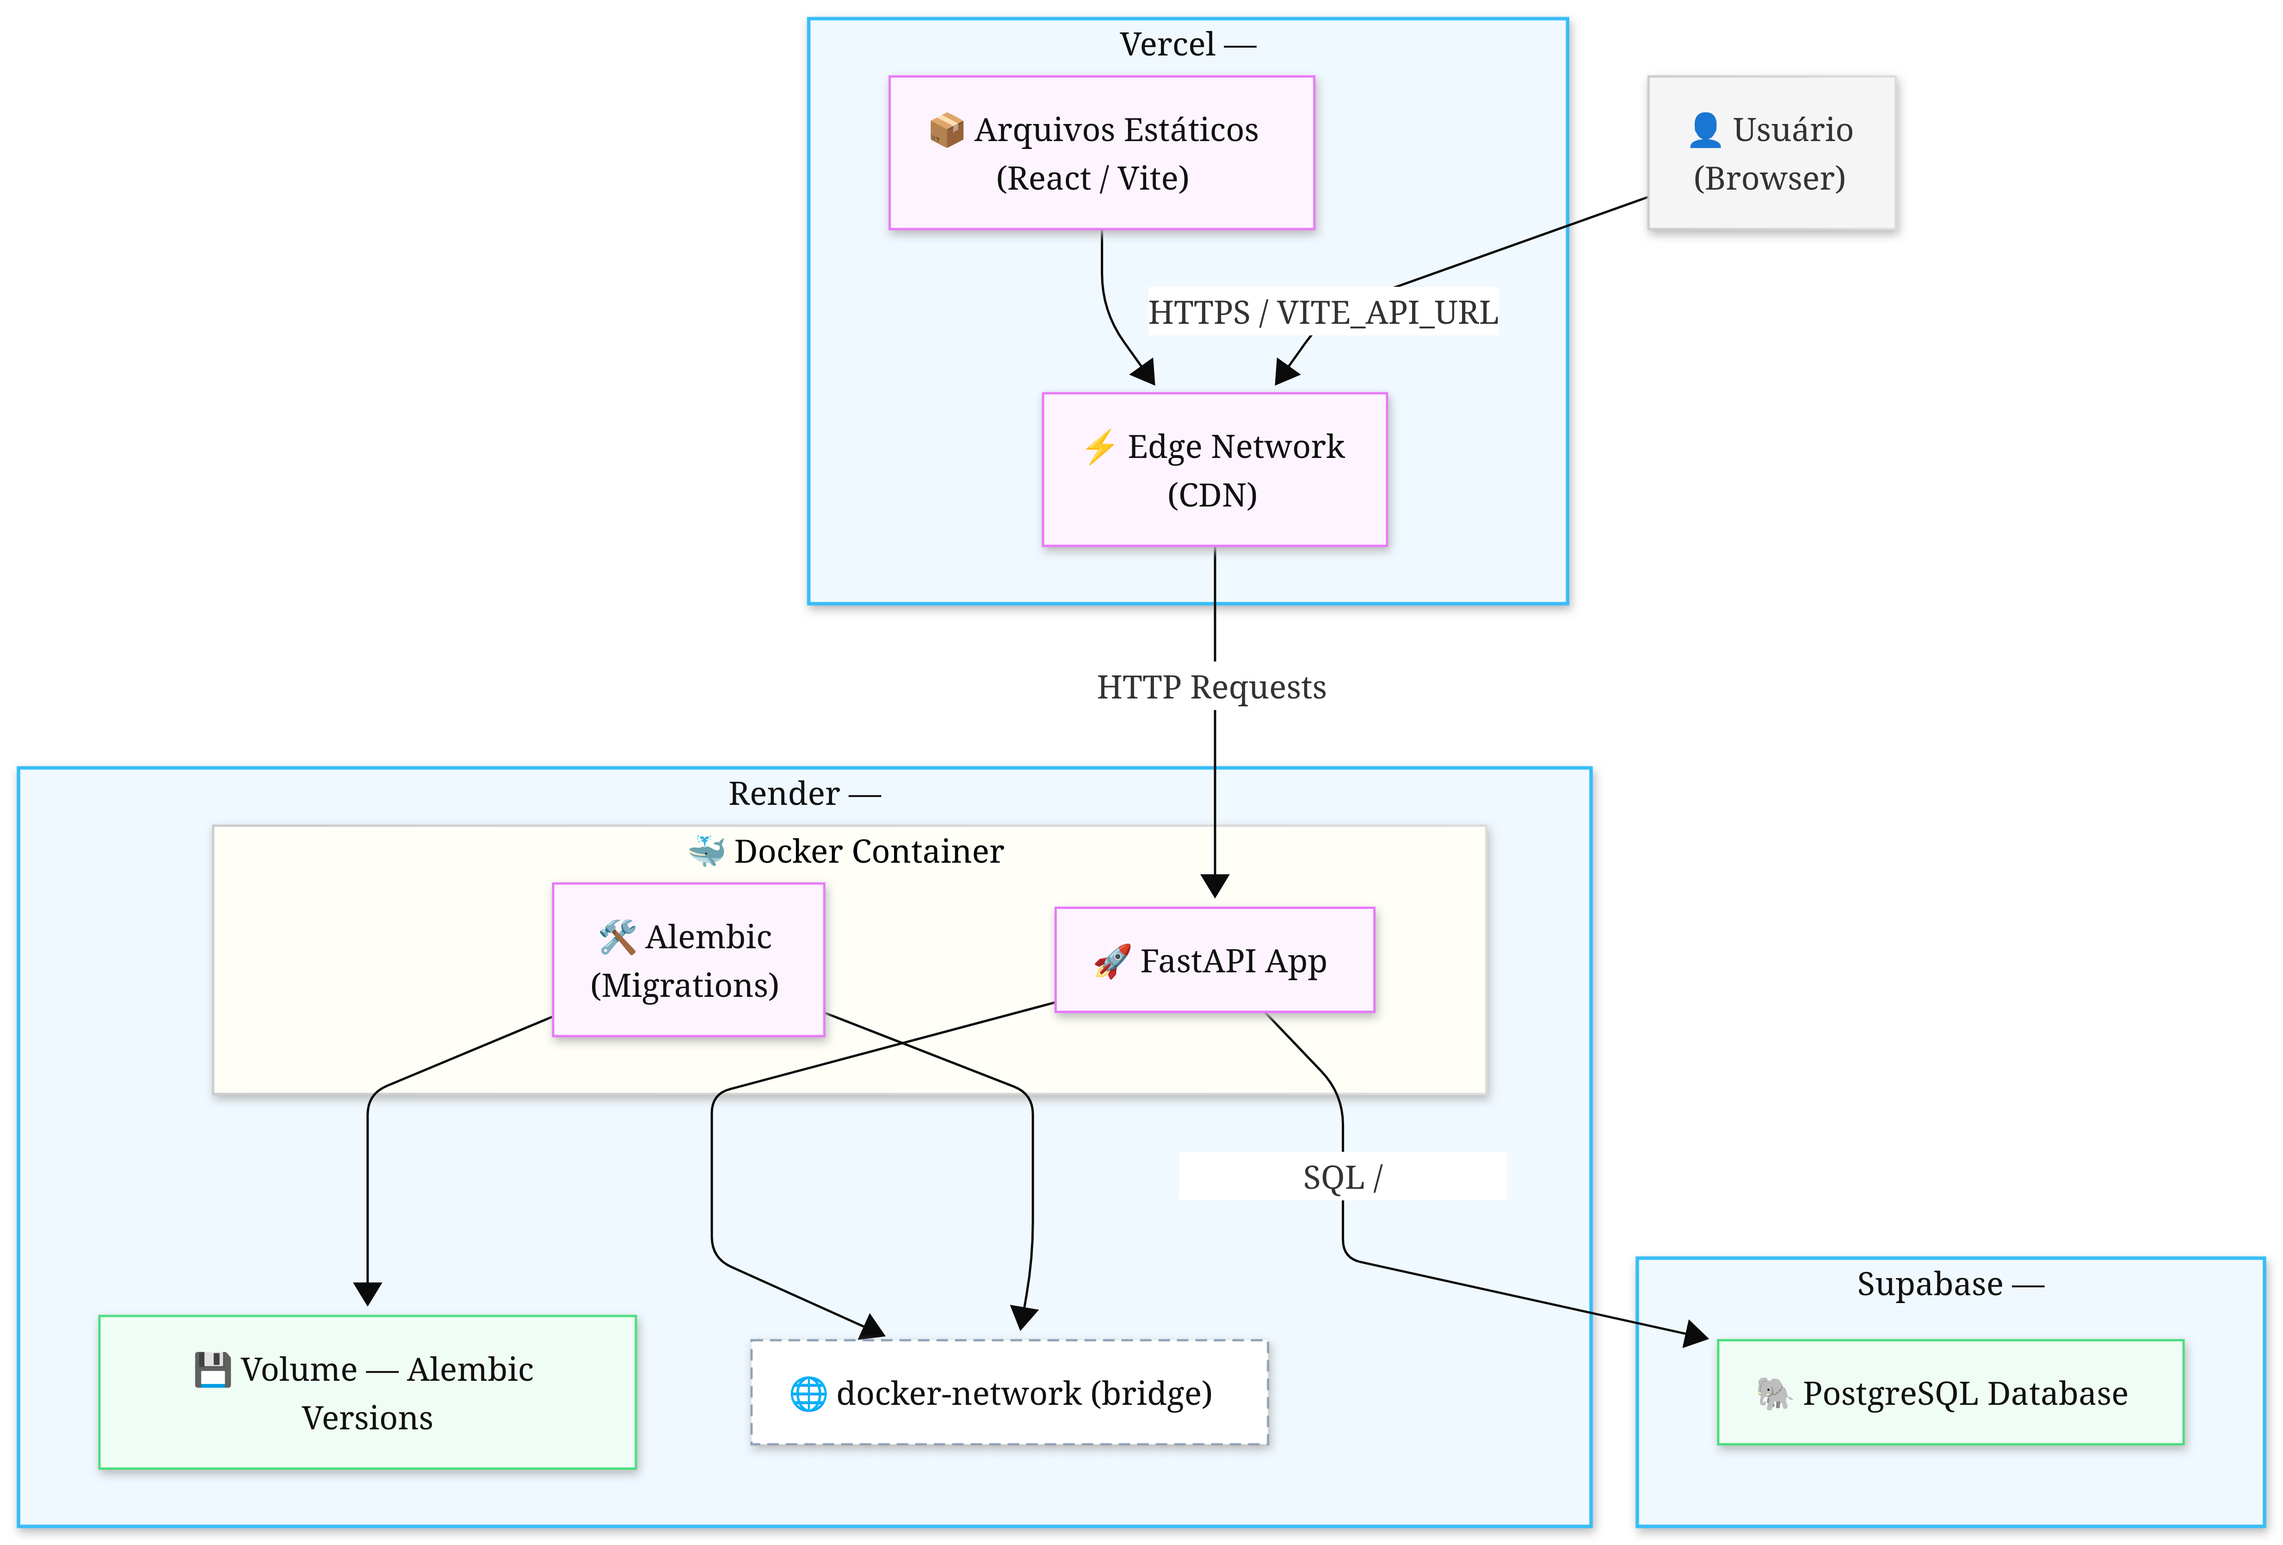
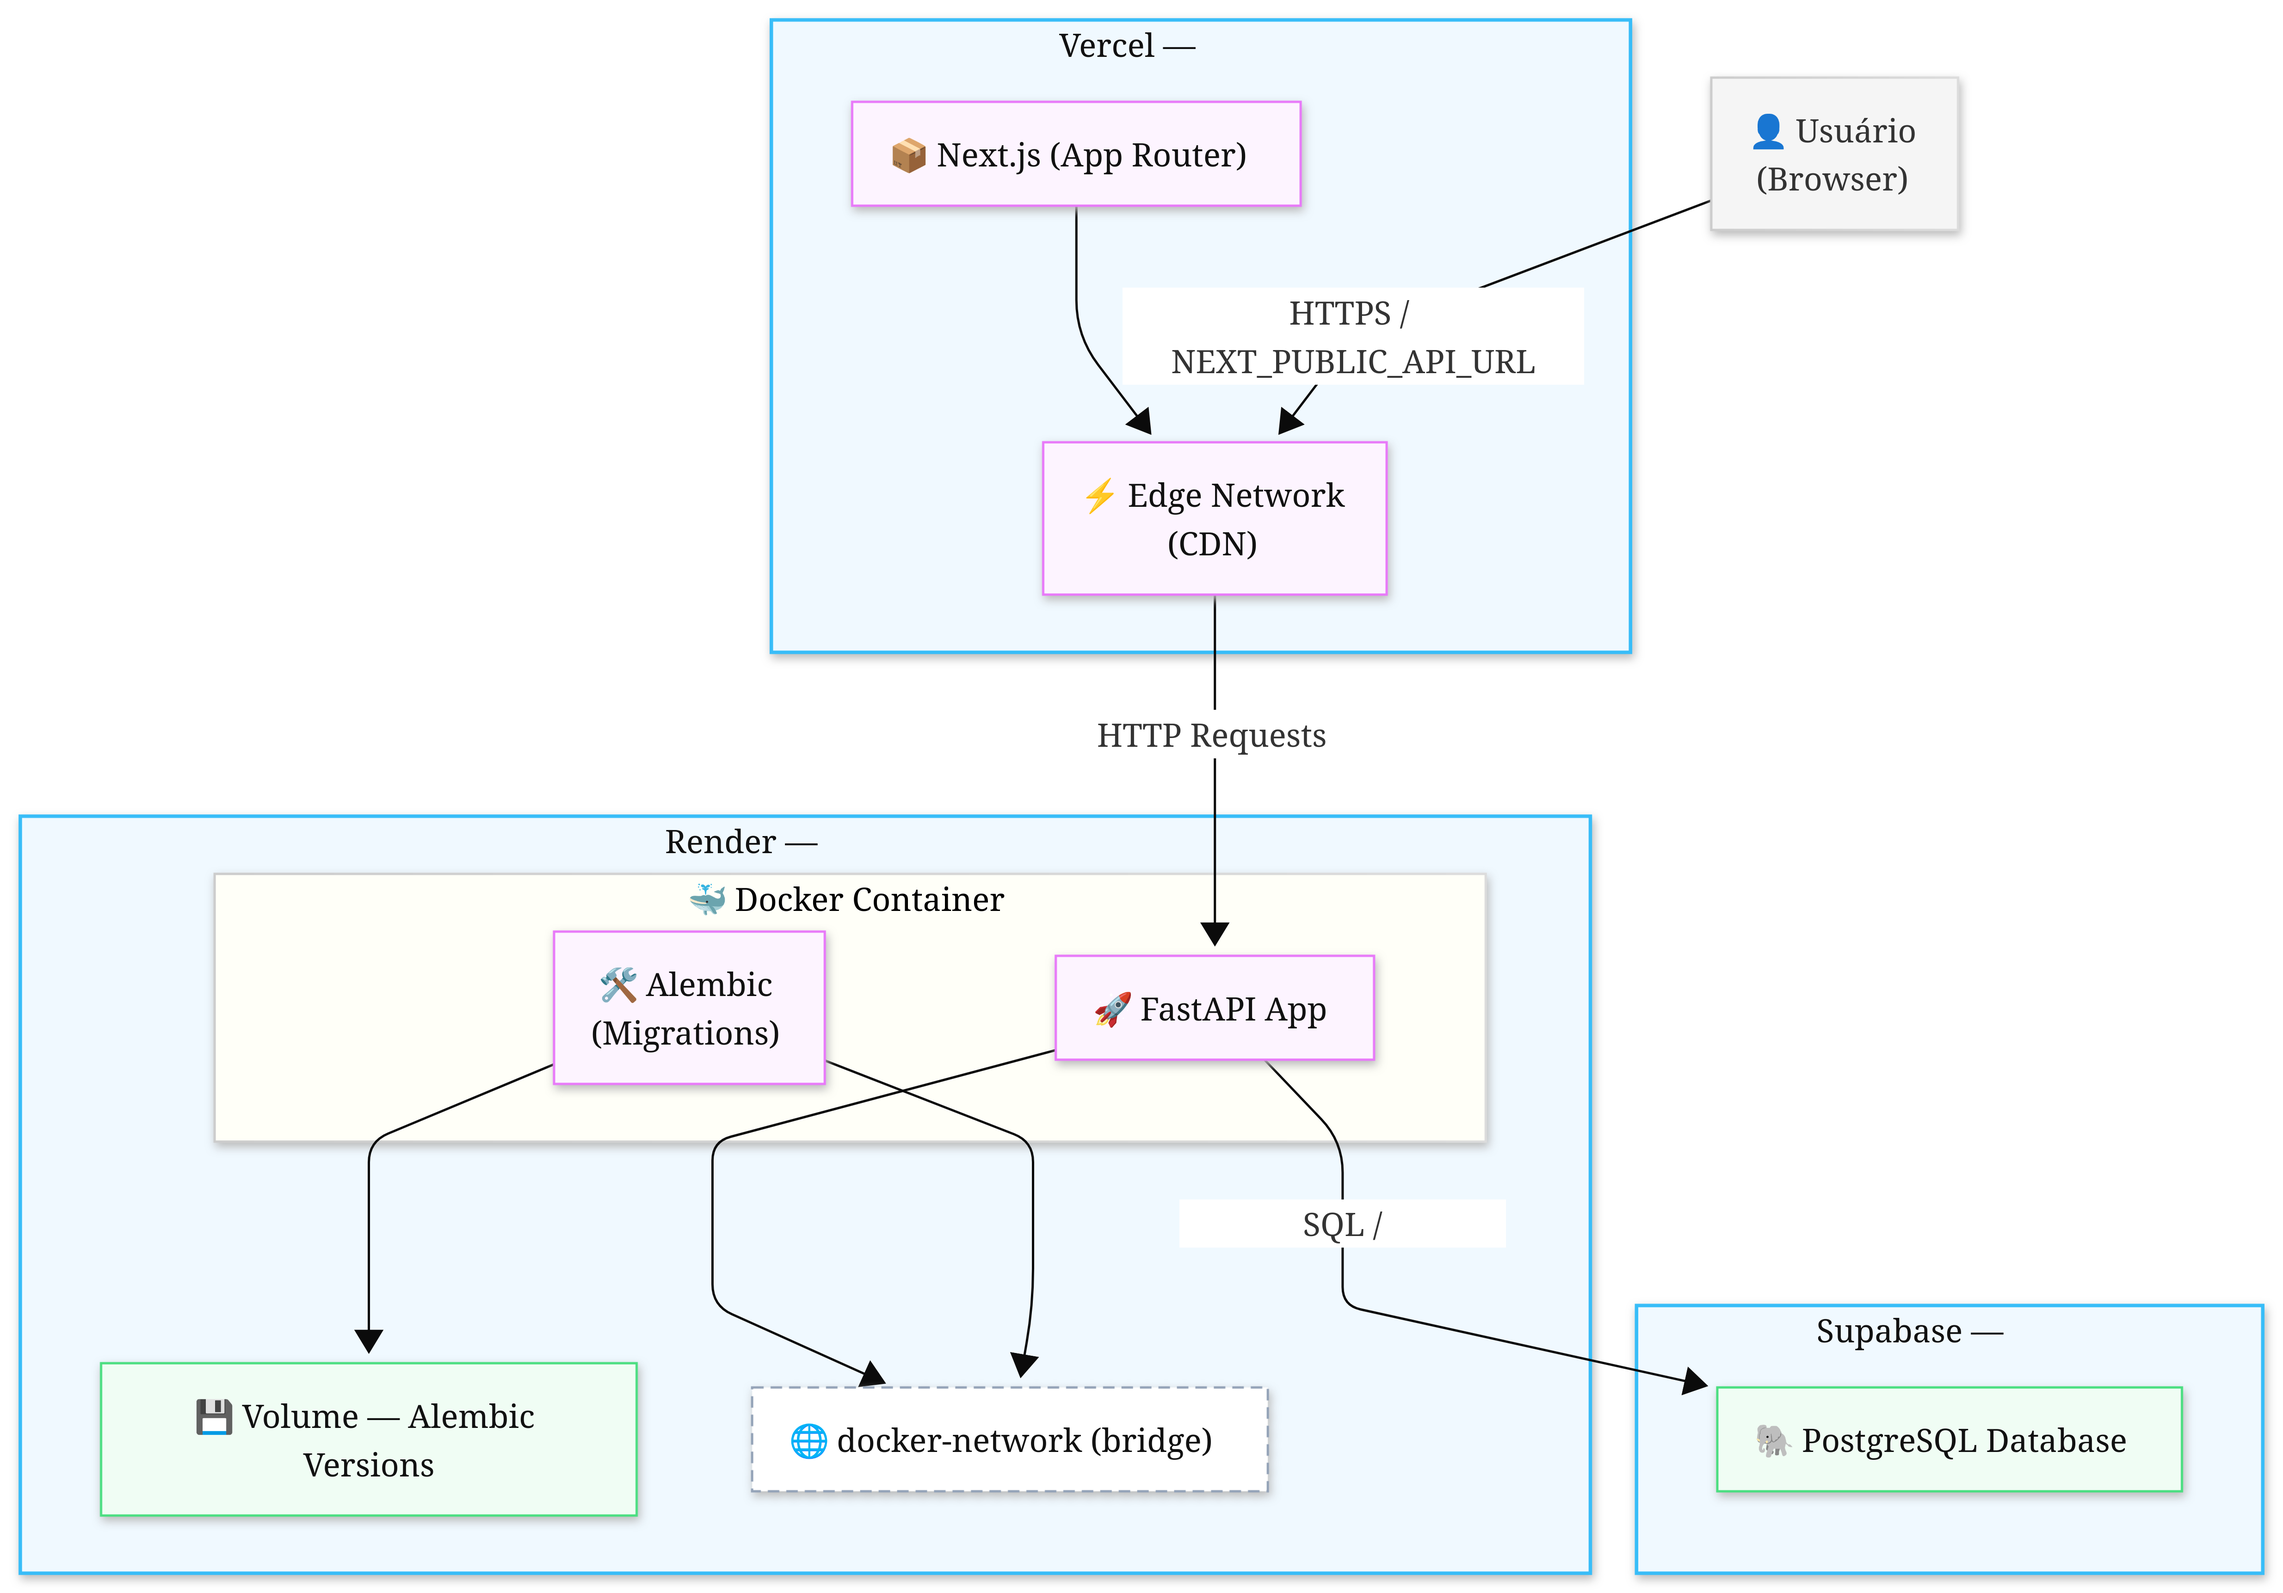
docs: atualização na documentação de infraestrutura
Devido às recentes mudanças na arquitetura do frontend, alterações nos seguintes documentos foram necessária:

- deployment-pipeline, infrastructure e provisioning. (foram feitas alterações pontualmente nas divergências aonde ocorreram as mudanças de React para Next.)

diff --git a/docs/infrastructure/PROVISIONING.md b/docs/infrastructure/PROVISIONING.md
@@ -1,61 +1,72 @@
-# Arquitetura de Infraestrutura e Segurança: FiveLib
+
+# 🏗 Arquitetura de Infraestrutura e Segurança: FiveLib
 
 ## 1. Visão Geral
-Este documento detalha a arquitetura de infraestrutura e as estratégias de segurança implementadas no projeto **FiveLib**. O sistema utiliza uma arquitetura distribuída, separando claramente as camadas de apresentação, processamento e persistência de dados.
+
+Este documento detalha a arquitetura de infraestrutura e as estratégias de segurança implementadas no projeto  **FiveLibX** . O sistema utiliza uma arquitetura distribuída, separando claramente as camadas de apresentação (Frontend), processamento (Backend) e persistência de dados (Database).
 
 ## 2. Componentes da Infraestrutura
 
 ### A. Persistência de Dados: Supabase (PostgreSQL)
+
 * **Função:** Camada de banco de dados relacional.
-* **Segurança:** Utiliza autenticação baseada em credenciais (Connection String) gerenciada por variáveis de ambiente no Backend. O acesso externo é restrito e monitorado.
+* **Segurança:** Utiliza autenticação baseada em credenciais (Connection String) gerenciada por variáveis de ambiente no Backend. O acesso externo é restrito e monitorado via políticas do provedor.
 
 ### B. Backend: Render (FastAPI + Docker)
-* **Função:** Camada de processamento de regras de negócio, API e migrações de banco de dados (Alembic).
-* **Infraestrutura:** Utiliza containers Docker. A configuração é garantida via variáveis de ambiente injetadas diretamente no painel do Render, evitando o armazenamento de segredos (`.env`) no repositório.
-* **Deploy:** Automatizado via GitHub, garantindo que o ambiente de produção espelhe a arquitetura testada localmente.
 
-### C. Frontend: Vercel (Vite + React)
-* **Função:** Camada de interface de usuário (UI).
-* **Distribuição:** Deploy em rede de borda (Edge Network) para alta performance.
-* **Integração:** Comunica-se com o Backend via requisições HTTP, utilizando a variável `VITE_API_URL` para identificar o ponto de extremidade da API.
+* **Função:** Camada de processamento de regras de negócio, API e migrações de banco de dados via **SQLAlchemy** e  **Alembic** .
+* **Infraestrutura:** Utiliza containers Docker para garantir paridade entre os ambientes de desenvolvimento (homelab) e produção.
+* **Deploy:** Automatizado via GitHub Actions, garantindo que cada push na branch `main` dispare o build da imagem Docker no Render.
+
+### C. Frontend: Vercel (Next.js)
+
+* **Função:** Camada de interface de usuário (UI) utilizando o  **Next.js App Router** .
+* **Distribuição:** Deploy em rede de borda (Edge Network) da Vercel.
+* **Integração:** Utiliza a variável `NEXT_PUBLIC_API_URL` para comunicação com o Backend, aproveitando as funcionalidades de Server Components para chamadas seguras no lado do servidor.
 
 ---
 
 ## 3. Estratégias de Segurança
 
 ### Gerenciamento de Segredos (Secrets Management)
-* **Injeção de Variáveis:** Todos os dados sensíveis (`DATABASE_URL`, chaves de acesso) são configurados nos painéis de controle dos provedores e nunca são expostos no código-fonte ou no GitHub.
-* **Exclusão de Arquivos:** O arquivo `.gitignore` está configurado para impedir o envio acidental de arquivos `.env` locais.
+
+* **Injeção de Variáveis:** Dados sensíveis (`DATABASE_URL`, chaves de API) são configurados exclusivamente nos painéis de controle (Render/Vercel) e nunca expostos no GitHub.
+* **Prevenção de Vazamento:** O arquivo `.gitignore` bloqueia arquivos `.env` locais, e o uso de tipos de variáveis no Next.js (com e sem o prefixo `NEXT_PUBLIC_`) garante que segredos de backend não vazem para o navegador.
 
 ### Segurança de Comunicação (CORS)
-* **Restrição de Origem:** O Backend (FastAPI) utiliza o middleware de CORS para aceitar requisições apenas da URL oficial do Frontend hospedado na Vercel. 
-* Isso impede que sites terceiros ou scripts maliciosos consigam consumir a API sem autorização, mesmo que conheçam o endpoint.
 
-### Segregação de Responsabilidades
-* O **Frontend** atua apenas como consumidor. Ele não possui permissão de acesso direto ao banco de dados, protegendo a integridade das tabelas contra manipulações diretas no navegador.
-* O **Backend** centraliza a validação de dados e regras de acesso antes de qualquer operação de leitura ou escrita.
+* **Restrição de Origem:** O Backend (FastAPI) utiliza o middleware de CORS para aceitar requisições apenas da URL oficial do Frontend. Isso impede que scripts maliciosos consumam a API de domínios não autorizados.
+
+### Camadas de Proteção
+
+* **Server-Side Rendering (SSR):** O uso de Next.js permite que certas validações e buscas de dados ocorram no servidor, ocultando a lógica de negócio e os endpoints internos do cliente final.
+* **Validação de Esquemas:** Uso extensivo de **Pydantic** no Backend e **Zod** no Frontend para garantir a integridade dos dados trafegados via JSON.
 
 ---
 
 ## 4. Fluxo de Execução
-1. O usuário interage com o **Frontend (Vercel)**.
-2. O navegador realiza chamadas para o endereço definido em `VITE_API_URL`.
-3. O **Backend (Render)** valida a origem (CORS).
-4. O Backend processa a lógica e consulta o **Supabase** via `DATABASE_URL`.
-5. Os dados retornam para o usuário de forma segura e tratada.
+
+1. O usuário acessa o  **Frontend (Vercel)** .
+2. O **Next.js** renderiza a página (via Server ou Client Components).
+3. Chamadas de API são feitas para o **Backend (Render)** usando `NEXT_PUBLIC_API_URL`.
+4. O Backend valida a requisição, processa a lógica com **SQLAlchemy** e consulta o  **Supabase** .
+5. A resposta retorna tratada para a interface do usuário.
 
 ---
 
 ## 5. Requisitos de Ambiente (Prerequisites)
-Para desenvolver ou operar este sistema, certifique-se de ter:
-* Docker Engine (v24+)
-* Python 3.12+
-* Node.js 20+
+
+Para operar ou contribuir com o projeto localmente:
+
+* **Docker Engine** (v24+)
+* **Python** 3.12+ (gerenciado via `pyenv`)
+* **Node.js** 20+ com **pnpm**
+* **PostgreSQL** (ou container Docker local para testes)
 
 ## 6. Variáveis de Ambiente
-O projeto depende das seguintes variáveis (configure-as no painel de controle do seu provedor):
 
-| Variável | Descrição | Obrigatório |
-| :--- | :--- | :--- |
-| `DATABASE_URL` | Conexão com Supabase (PostgreSQL) | Sim |
-| `VITE_API_URL` | Endpoint da API do Backend | Sim |
+| Variável               | Descrição                                    | Escopo   |
+| ----------------------- | ---------------------------------------------- | -------- |
+| `DATABASE_URL`        | String de conexão com o PostgreSQL (Supabase) | Backend  |
+| `NEXT_PUBLIC_API_URL` | Endpoint público da API para o Frontend       | Frontend |
+| `NODE_ENV`            | Define o ambiente (development/production)     |          |
